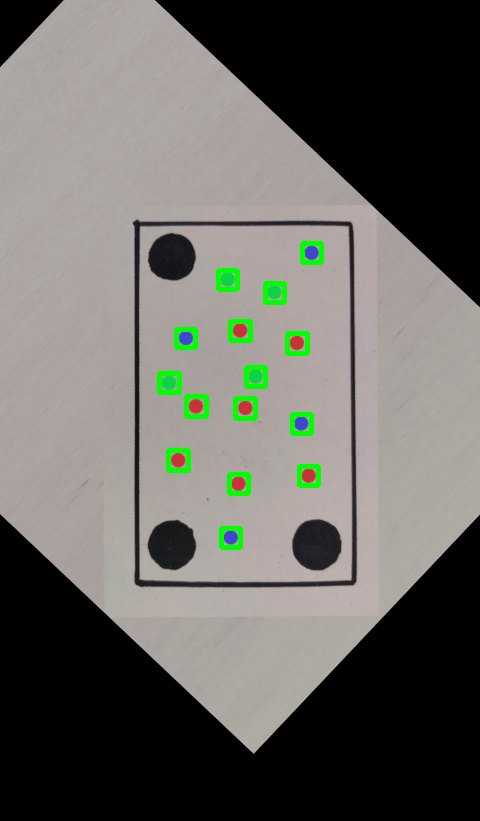
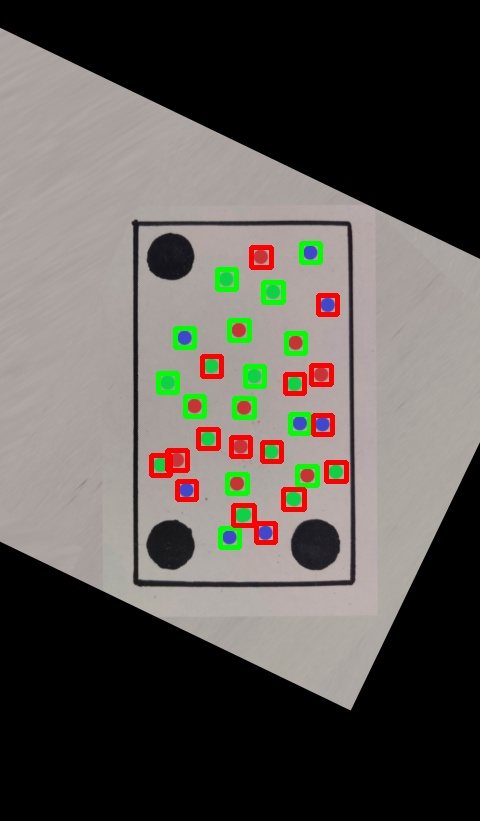
LYA

diff --git a/components_detector.py b/components_detector.py
@@ -183,6 +183,9 @@ def Proceso(img_ubicacion, calibrar):
         global LyA_rojos_Original
         global LyA_azules_Original
         global LyA_verdes_Original
+        global LyA_rojos
+        global LyA_Azules
+        global LyA_Verdes
     
         centroide_rojos_Original=[]
         centroide_azules_Original=[]
@@ -190,6 +193,9 @@ def Proceso(img_ubicacion, calibrar):
         LyA_rojos_Original=[]
         LyA_azules_Original=[]
         LyA_verdes_Original=[]
+        LyA_rojos=[]
+        LyA_Azules=[]
+        LyA_Verdes=[]
     
     # Convertir la imagen a espacio de color HSV
     hsv_image = cv2.cvtColor(rotated_image, cv2.COLOR_BGR2HSV)
@@ -231,6 +237,7 @@ def Proceso(img_ubicacion, calibrar):
     #Guardamos algunas variables de los objetos encontrados en los array
       xwyh_Rojos.append((x+w, y+h))
       xy_Rojos.append((x, y))
+      LyA_rojos.append((max(w, h), min(w, h)))
       centroides_rojos.append((int(cX),int(cY)))
       
     # Imprimir las medidas y área del objeto
@@ -377,10 +384,12 @@ def Proceso(img_ubicacion, calibrar):
     #Aplicar funcion comparar_coordenadas para cada centroide rojo con cada centroide_rojos_Original
     for i in range(1, len(centroides_rojos)):
         for centroide_rojo_Original in centroide_rojos_Original:
+            ubicacion=centroide_rojos_Original.index(centroide_rojo_Original)
             if comparar_coordenadas(centroides_rojos[i], centroide_rojo_Original):
-               cv2.rectangle(output, xy_Rojos[i], xwyh_Rojos[i], (0, 255, 0), 3)
-               NumeroPuntosRojos+=1
-               break
+                if comparar_LyA(LyA_rojos_Original[ubicacion], LyA_rojos[i]):
+                    cv2.rectangle(output, xy_Rojos[i], xwyh_Rojos[i], (0, 255, 0), 3)
+                    NumeroPuntosRojos+=1
+                    break
             else:
                 cv2.rectangle(output, xy_Rojos[i], xwyh_Rojos[i], (0, 0, 255), 3)     
                    
